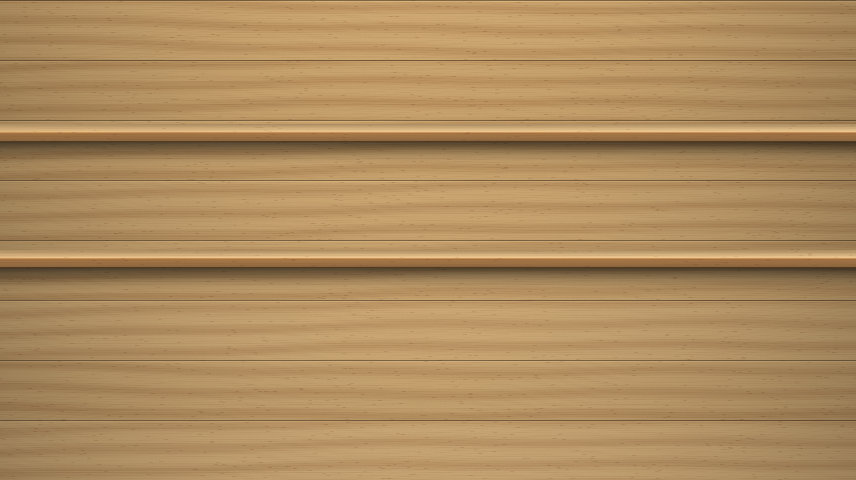
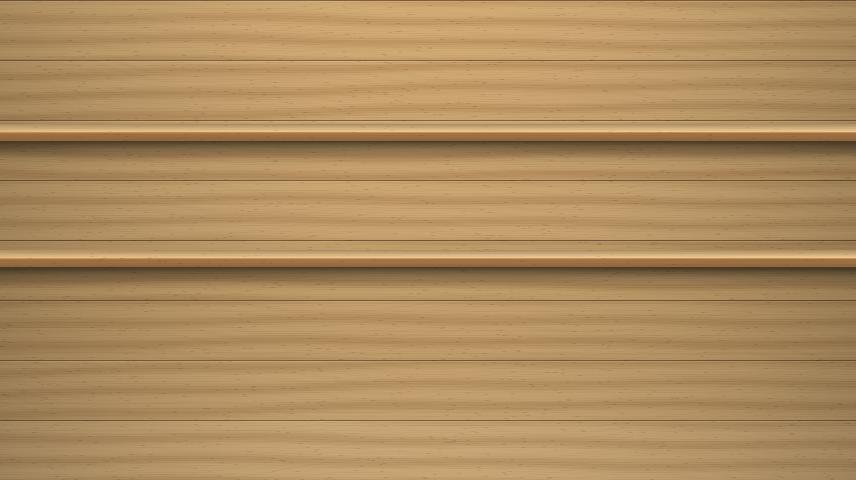
Themes: games' colours tinted to match, a shelf-view wall, the disc on its box
banner_tint mixes a theme's colour into every game's own (the game page's
banner, plain spines and backs on the shelf): Bookshelf's go walnut like
cloth bindings, Midnight's a little deeper, instead of bright blues and
reds on wood and dark panels.

background_shelf(_wide).png replace the background while Home shows the
shelf: Bookshelf's has only the lower shelf, so the upper one no longer
runs through the boxes. Its plank picture now repeats without a seam.

On the shelf, the Disc drive's box shows the disc on its front, as its
tile does, instead of a blank white cover.

diff --git a/tools/make_bookshelf_theme.py b/tools/make_bookshelf_theme.py
@@ -12,9 +12,12 @@ picture from anywhere else):
 - bar.png: Home's bottom bar as the bookcase's base, its curve edged in
   brass;
 - shelf.png: the wood for the shelf view's plank;
-- background_wide.png / bar_wide.png: the same, 856 across, for a
-  widescreen menu;
-- theme.ini: cream paper panels and dark brown ink.
+- background_shelf.png: the same wall for the shelf view, with only the
+  lower shelf (the boxes stand on it; the upper one would cross them);
+- background_wide.png / bar_wide.png / background_shelf_wide.png: the
+  same, 856 across, for a widescreen menu;
+- theme.ini: cream paper panels, dark brown ink, and the games' own
+  colours mixed with walnut (their banners and plain spines).
 
     python tools/make_bookshelf_theme.py      (needs numpy and Pillow)
 """
@@ -26,6 +29,10 @@ from PIL import Image, ImageFilter
 
 OUT = pathlib.Path(__file__).resolve().parent.parent / "themes" / "Bookshelf"
 RNG = np.random.default_rng(1206)
+
+# Where the random numbers stood before each wall (background()), so the
+# shelf view's walls get the same planks.
+WALL_STATE = {}
 
 # Home's cover rows (wii/gui_gamegrid.cpp: covers 80x112, top 16, 14 apart).
 COVER_ROW_BOTTOMS = (16 + 112, 16 + 112 + 14 + 112)
@@ -71,6 +78,8 @@ bar = #B88D5A
 backdrop = #C9A06A
 backdrop_stripe = #C9A06A
 banner_stripe = #FFF4E014
+# The games' own colours, half walnut: cloth bindings on the shelf
+banner_tint = #8A5A2E73
 
 # Lists and badges
 divider = #E6DCCB
@@ -122,7 +131,7 @@ def shade(img, y0, y1, top, bottom):
     img[y0:y1] *= f
 
 
-def background(W=640):
+def background(W=640, shelves=COVER_ROW_BOTTOMS):
     H = 480
     img = np.zeros((H, W, 3))
     # The wall: planks 60 high, each its own cut of the wood.
@@ -144,7 +153,7 @@ def background(W=640):
     img *= vign[..., None]
     # The shelves: a top the covers stand on, seen from a little above,
     # a front edge filling the gap to the next row, and a deep shadow.
-    for bottom in COVER_ROW_BOTTOMS:
+    for bottom in shelves:
         top_face, lip = 8, 10
         y0 = bottom - top_face + 4
         img[y0:y0 + top_face] = wood(W, top_face, (232, 196, 142), (204, 162, 108), phase=bottom * 0.1, wave=2)
@@ -223,30 +232,40 @@ def bar(W=640):
 
 def shelf_picture():
     """256x64 for the shelf view: the top (rows 0-47), then the front edge."""
-    top = wood(256, 48, (226, 188, 132), (196, 152, 98), phase=1.0, wave=3)
+    # 32 more across than kept: the extra wood is faded in over the first 32
+    # columns, so column 0 carries on from column 255 and the copies along
+    # the plank join with no seam.
+    top = wood(288, 48, (226, 188, 132), (196, 152, 98), phase=1.0, wave=3)
     shade_rows = np.linspace(0.8, 1.0, 48)[:, None, None]
     top *= shade_rows
-    edge = wood(256, 16, (186, 140, 88), (150, 104, 60), phase=2.5, wave=2)
+    edge = wood(288, 16, (186, 140, 88), (150, 104, 60), phase=2.5, wave=2)
     edge[0] *= 1.18
     edge *= np.linspace(1.0, 0.8, 16)[:, None, None]
     img = np.concatenate([top, edge], axis=0)
-    # The picture repeats along the plank: fade its right end into its left.
-    blend = np.clip((np.arange(256) - 224) / 32.0, 0, 1)[None, :, None]
-    img = img * (1 - blend) + img[:, ::-1] * 0 + img[:, 0:1] * blend
-    return np.clip(img, 0, 255).astype(np.uint8)
+    ramp = (np.arange(32) / 32.0)[None, :, None]
+    out = img[:, :256].copy()
+    out[:, :32] = img[:, :32] * ramp + img[:, 256:288] * (1 - ramp)
+    return np.clip(out, 0, 255).astype(np.uint8)
 
 
 def main():
     OUT.mkdir(parents=True, exist_ok=True)
     (OUT / "theme.ini").write_bytes(INI.replace("\n", "\r\n").encode("utf-8"))
+    WALL_STATE[640] = RNG.bit_generator.state
     Image.fromarray(background()).save(OUT / "background.png", optimize=True)
     Image.fromarray(cover_tile(False)).save(OUT / "cover_tile.png", optimize=True)
     Image.fromarray(cover_tile(True)).save(OUT / "cover_tile_over.png", optimize=True)
     Image.fromarray(bar()).save(OUT / "bar.png", optimize=True)
     Image.fromarray(shelf_picture()).save(OUT / "shelf.png", optimize=True)
     # Last, so the pictures above come out as before.
+    WALL_STATE[856] = RNG.bit_generator.state
     Image.fromarray(background(856)).save(OUT / "background_wide.png", optimize=True)
     Image.fromarray(bar(856)).save(OUT / "bar_wide.png", optimize=True)
+    # The shelf view's walls: the same planks (the generator back where it
+    # was for each wall), only the lower shelf.
+    for name, w in (("background_shelf.png", 640), ("background_shelf_wide.png", 856)):
+        RNG.bit_generator.state = WALL_STATE[w]
+        Image.fromarray(background(w, shelves=COVER_ROW_BOTTOMS[1:])).save(OUT / name, optimize=True)
     print("wrote", OUT)
 
 

diff --git a/wii/skin.cpp b/wii/skin.cpp
@@ -8,6 +8,7 @@
 #include <cstring>
 #include <vector>
 
+#include "loadersettings.hpp"
 #include "menutheme.hpp"
 #include "riftwii/canvas.hpp"
 #include "riftwii/skinpaint.hpp"
@@ -58,6 +59,7 @@ bool g_ready = false;
 GXColor g_backdrop = {236, 236, 239, 255};
 GXColor g_backdrop_stripe = {227, 227, 232, 255};
 bool g_stripes = true;
+GXColor g_banner_tint = {0, 0, 0, 0};
 
 GXColor ToGx(const ThemeColor& c) { return GXColor{c.r, c.g, c.b, c.a}; }
 
@@ -84,6 +86,7 @@ void ApplyColors(const Theme& t) {
     g_backdrop = ToGx(c.backdrop);
     g_backdrop_stripe = ToGx(c.backdrop_stripe);
     g_stripes = t.stripes;
+    g_banner_tint = ToGx(c.banner_tint);
 }
 
 Tex Upload(const Canvas& c) {
@@ -118,7 +121,7 @@ Tex Pick(const ThemeImage& im) {
     // Only a theme's own: without them the menu paints the backdrop
     // (GuiBackdrop) and mirrors the 640 bar outward.
     if (std::strcmp(im.name, "background") == 0 || std::strcmp(im.name, "background_wide") == 0 ||
-        std::strcmp(im.name, "bar_wide") == 0)
+        std::strcmp(im.name, "bar_wide") == 0 || std::strncmp(im.name, "background_shelf", 16) == 0)
         return Tex();
     Canvas c(0, 0);
     if (!paint_theme_image(im.name, MenuTheme(), c)) return Tex();
@@ -129,6 +132,7 @@ Tex Pick(const ThemeImage& im) {
 
 Tex background;
 Tex backgroundWide, barWide;
+Tex backgroundShelf, backgroundShelfWide;
 Tex shelfPlank;
 
 Tex ArtFrame(int w, int h) {
@@ -185,6 +189,7 @@ void Init() {
         {"icon_gear", &iconGear}, {"icon_search", &iconSearch}, {"icon_disc", &iconDisc}, {"pointer1", &hand[0]}, {"pointer2", &hand[1]},
         {"pointer3", &hand[2]}, {"pointer4", &hand[3]}, {"shelf", &shelfPlank},
         {"background_wide", &backgroundWide}, {"bar_wide", &barWide},
+        {"background_shelf", &backgroundShelf}, {"background_shelf_wide", &backgroundShelfWide},
     };
     for (const ThemeImage& im : theme_images()) {
         for (const Slot& s : slots) {
@@ -203,7 +208,11 @@ GXColor HueFor(const std::string& id) {
     };
     std::uint32_t h = 2166136261u;
     for (char ch : id.substr(0, 4)) h = (h ^ static_cast<unsigned char>(ch)) * 16777619u;
-    return palette[h % (sizeof(palette) / sizeof(palette[0]))];
+    const GXColor hue = palette[h % (sizeof(palette) / sizeof(palette[0]))];
+    // The theme's tint, mixed in by its alpha (Bookshelf: warm wood).
+    const unsigned a = g_banner_tint.a;
+    const auto mix = [a](u8 own, u8 tint) { return static_cast<u8>((own * (255 - a) + tint * a + 127) / 255); };
+    return {mix(hue.r, g_banner_tint.r), mix(hue.g, g_banner_tint.g), mix(hue.b, g_banner_tint.b), 255};
 }
 
 void Draw(const Tex& t, float x, float y, int alpha, float scale) {
@@ -329,7 +338,15 @@ void GuiBackdrop::Draw() {
     // when it has one.
     f32 vx, vy, vw, vh;
     Menu_VisibleArea(&vx, &vy, &vw, &vh);
-    const Tex& picture = WideMenu() && backgroundWide.data ? backgroundWide : background;
+    const bool wide = WideMenu();
+    const Tex* pick = wide && backgroundWide.data ? &backgroundWide : &background;
+    // The shelf view's own wall when the theme has one (Bookshelf: no
+    // shelf through the boxes, where Home's upper row of covers stands).
+    if (riftwii::wii::Settings().home_tiles == "shelf") {
+        if (wide && backgroundShelfWide.data) pick = &backgroundShelfWide;
+        else if (backgroundShelf.data && !(wide && backgroundWide.data)) pick = &backgroundShelf;
+    }
+    const Tex& picture = *pick;
     if (picture.data) {
         DrawExtended(picture, 320.0f - picture.w / 2.0f, 0, vx, vy, vx + vw, vy + vh, picture.w, picture.h);
         return;

diff --git a/wii/gui_shelf.cpp b/wii/gui_shelf.cpp
@@ -384,6 +384,43 @@ void GuiGameGrid::DrawShelf(int alpha) {
             Project(along(tl, bl, 0.78f), dummy, sy1);
             labels.push_back(SpineLabel{i, (sx + sxr) / 2, sy0, sy1});
         }
+        if (item.badge == "DISC" && !art && !cover && FacesEye(faces[1]) && skin::iconDisc.data) {
+            // The disc drive has no box art: the Disc drive tile's disc
+            // (as on the grid), square in the middle of the front.
+            const Face& fr = faces[1];
+            const auto at = [&](float u, float v) {
+                const V3 t{fr.c[0].x + (fr.c[1].x - fr.c[0].x) * u, fr.c[0].y + (fr.c[1].y - fr.c[0].y) * u,
+                           fr.c[0].z + (fr.c[1].z - fr.c[0].z) * u};
+                const V3 b{fr.c[3].x + (fr.c[2].x - fr.c[3].x) * u, fr.c[3].y + (fr.c[2].y - fr.c[3].y) * u,
+                           fr.c[3].z + (fr.c[2].z - fr.c[3].z) * u};
+                return V3{t.x + (b.x - t.x) * v, t.y + (b.y - t.y) * v, t.z + (b.z - t.z) * v};
+            };
+            const auto len = [](V3 a, V3 b) {
+                return std::sqrt((a.x - b.x) * (a.x - b.x) + (a.y - b.y) * (a.y - b.y) + (a.z - b.z) * (a.z - b.z));
+            };
+            const float wide = len(fr.c[0], fr.c[1]), tall = len(fr.c[0], fr.c[3]);
+            const float su = 0.6f, sv = tall > 0 ? su * wide / tall : su;
+            const float v0 = 0.42f - sv / 2;
+            Face disc = fr;
+            disc.c[0] = at(0.2f, v0);
+            disc.c[1] = at(0.8f, v0);
+            disc.c[2] = at(0.8f, v0 + sv);
+            disc.c[3] = at(0.2f, v0 + sv);
+            // A little in front of the cover, so the depth test keeps it.
+            for (V3& c : disc.c) {
+                c.x += fr.normal.x * 0.6f;
+                c.y += fr.normal.y * 0.6f;
+                c.z += fr.normal.z * 0.6f;
+            }
+            disc.tex = skin::iconDisc.data;
+            disc.texW = skin::iconDisc.w;
+            disc.texH = skin::iconDisc.h;
+            disc.rgba8 = true;
+            disc.u0 = disc.v0 = 0;
+            disc.u1 = disc.v1 = 1;
+            disc.color = {255, 255, 255, 255};
+            DrawFace(disc, alpha);
+        }
         if (x1 > x0) spineRects.push_back({i, x0, y0, x1, y1});
     }
     LoadFlat();

diff --git a/tests/theme_tests.cpp b/tests/theme_tests.cpp
@@ -54,6 +54,13 @@ static void test_default_theme() {
     const Theme parsed_bom = parse_theme("\xEF\xBB\xBF# comment\r\n; another\r\n\r\n", notes);
     EXPECT_EQ(notes.size(), 0U);
     EXPECT_TRUE(themes_equal(def, parsed_bom));
+
+    // The games' colours are left alone unless a theme tints them.
+    EXPECT_EQ(def.colors.banner_tint.a, 0);
+    notes.clear();
+    const Theme tinted = parse_theme("[colors]\nbanner_tint = #8A5A2E73\n", notes);
+    EXPECT_EQ(notes.size(), 0U);
+    EXPECT_TRUE(tinted.colors.banner_tint == (ThemeColor{0x8A, 0x5A, 0x2E, 0x73}));
 }
 
 static void test_parse_theme_color() {
@@ -326,7 +333,7 @@ static void test_skipped_cases() {
 
 static void test_theme_color_keys() {
     const auto& keys = theme_color_keys();
-    EXPECT_EQ(keys.size(), 32U);
+    EXPECT_EQ(keys.size(), 33U);
 
     // Unique keys.
     for (std::size_t i = 0; i < keys.size(); ++i) {
@@ -359,7 +366,7 @@ static void test_theme_color_keys() {
 
 static void test_theme_images() {
     const auto& images = theme_images();
-    EXPECT_EQ(images.size(), 45U);
+    EXPECT_EQ(images.size(), 47U);
 
     // Unique names.
     for (std::size_t i = 0; i < images.size(); ++i) {

diff --git a/src/theme.cpp b/src/theme.cpp
@@ -322,6 +322,7 @@ const std::vector<ThemeColorKey>& theme_color_keys() {
         {"backdrop", &ThemeColors::backdrop},
         {"backdrop_stripe", &ThemeColors::backdrop_stripe},
         {"banner_stripe", &ThemeColors::banner_stripe},
+        {"banner_tint", &ThemeColors::banner_tint},
         {"divider", &ThemeColors::divider},
         {"scroll_track", &ThemeColors::scroll_track},
         {"scroll_thumb", &ThemeColors::scroll_thumb},
@@ -384,6 +385,9 @@ const std::vector<ThemeImage>& theme_images() {
         // A widescreen menu's: 856 across is 640 on a 16:9 TV's 4:3 middle.
         {"background_wide", 856, 480},
         {"bar_wide", 856, 124},
+        // Instead of background(_wide) while Home shows the shelf.
+        {"background_shelf", 640, 480},
+        {"background_shelf_wide", 856, 480},
     };
     return images;
 }

diff --git a/src/skinpaint.cpp b/src/skinpaint.cpp
@@ -300,6 +300,8 @@ bool paint_theme_image(const std::string& name, const Theme& theme, Canvas& out)
         {"bar", [](const Painter& q) { return q.Bar(); }},
         {"background_wide", [](const Painter& q) { return q.Background(856); }},
         {"bar_wide", [](const Painter& q) { return q.Bar(856); }},
+        {"background_shelf", [](const Painter& q) { return q.Background(640); }},
+        {"background_shelf_wide", [](const Painter& q) { return q.Background(856); }},
         {"banner_stripes", [](const Painter& q) { return q.Stripes(); }},
         {"arrow_left", [](const Painter& q) { return q.Arrow(true, false); }},
         {"arrow_left_over", [](const Painter& q) { return q.Arrow(true, true); }},

diff --git a/include/riftwii/theme.hpp b/include/riftwii/theme.hpp
@@ -54,6 +54,9 @@ struct ThemeColors {
     ThemeColor backdrop{236, 236, 239, 255};    // behind every screen
     ThemeColor backdrop_stripe{227, 227, 232, 255};
     ThemeColor banner_stripe{255, 255, 255, 20};  // over a game page's banner
+    // Mixed into each game's own colour (a game page's banner, plain spines
+    // on the shelf) by its alpha: 00 leaves the games' colours as they are.
+    ThemeColor banner_tint{0, 0, 0, 0};
     ThemeColor divider{232, 232, 238, 255};     // between list rows
     ThemeColor scroll_track{230, 230, 236, 255};
     ThemeColor scroll_thumb{168, 168, 180, 255};

diff --git a/tools/theme_kit.cpp b/tools/theme_kit.cpp
@@ -52,6 +52,7 @@ const char* Where(const std::string& key) {
         {"backdrop", "behind every screen"},
         {"backdrop_stripe", "the backdrop's thin stripes"},
         {"banner_stripe", "stripes over a game page's banner"},
+        {"banner_tint", "mixed into each game's colour (banner, plain spines) by its alpha"},
         {"divider", "between list rows"},
         {"scroll_track", "a list's scroll track"},
         {"scroll_thumb", "a list's scroll thumb"},

diff --git a/docs/THEMES.md b/docs/THEMES.md
@@ -81,6 +81,7 @@ shows:
 | `backdrop` | `#ECECEF` | Behind every screen |
 | `backdrop_stripe` | `#E3E3E8` | The backdrop's thin stripes |
 | `banner_stripe` | `#FFFFFF14` | Stripes over a game page's banner |
+| `banner_tint` | `#00000000` | Mixed into each game's own colour (a game page's banner, plain spines and backs on the shelf) by its alpha: `00` keeps the games' colours, `FF` gives every game this colour |
 | `divider` | `#E8E8EE` | Between list rows |
 | `scroll_track` | `#E6E6EC` | A list's scroll track |
 | `scroll_thumb` | `#A8A8B4` | A list's scroll thumb |
@@ -132,6 +133,7 @@ Pictures ending in `_over` are the highlighted versions. Transparency
 | `shelf` | 256x64 | Home's shelf: rows 0-47 are its top (the far edge first), rows 48-63 its front edge. It repeats along the shelf, so make the left and right edges meet |
 | `background_wide` | 856x480 | `background` for a widescreen menu (optional) |
 | `bar_wide` | 856x124 | `bar` for a widescreen menu, its bump in the middle (optional) |
+| `background_shelf` / `background_shelf_wide` | 640x480 / 856x480 | `background` / `background_wide` while Home shows the shelf (Settings > Home tiles > Shelf), for a background drawn to go with Home's rows of covers (optional) |
 
 ### Widescreen and screen size
 
